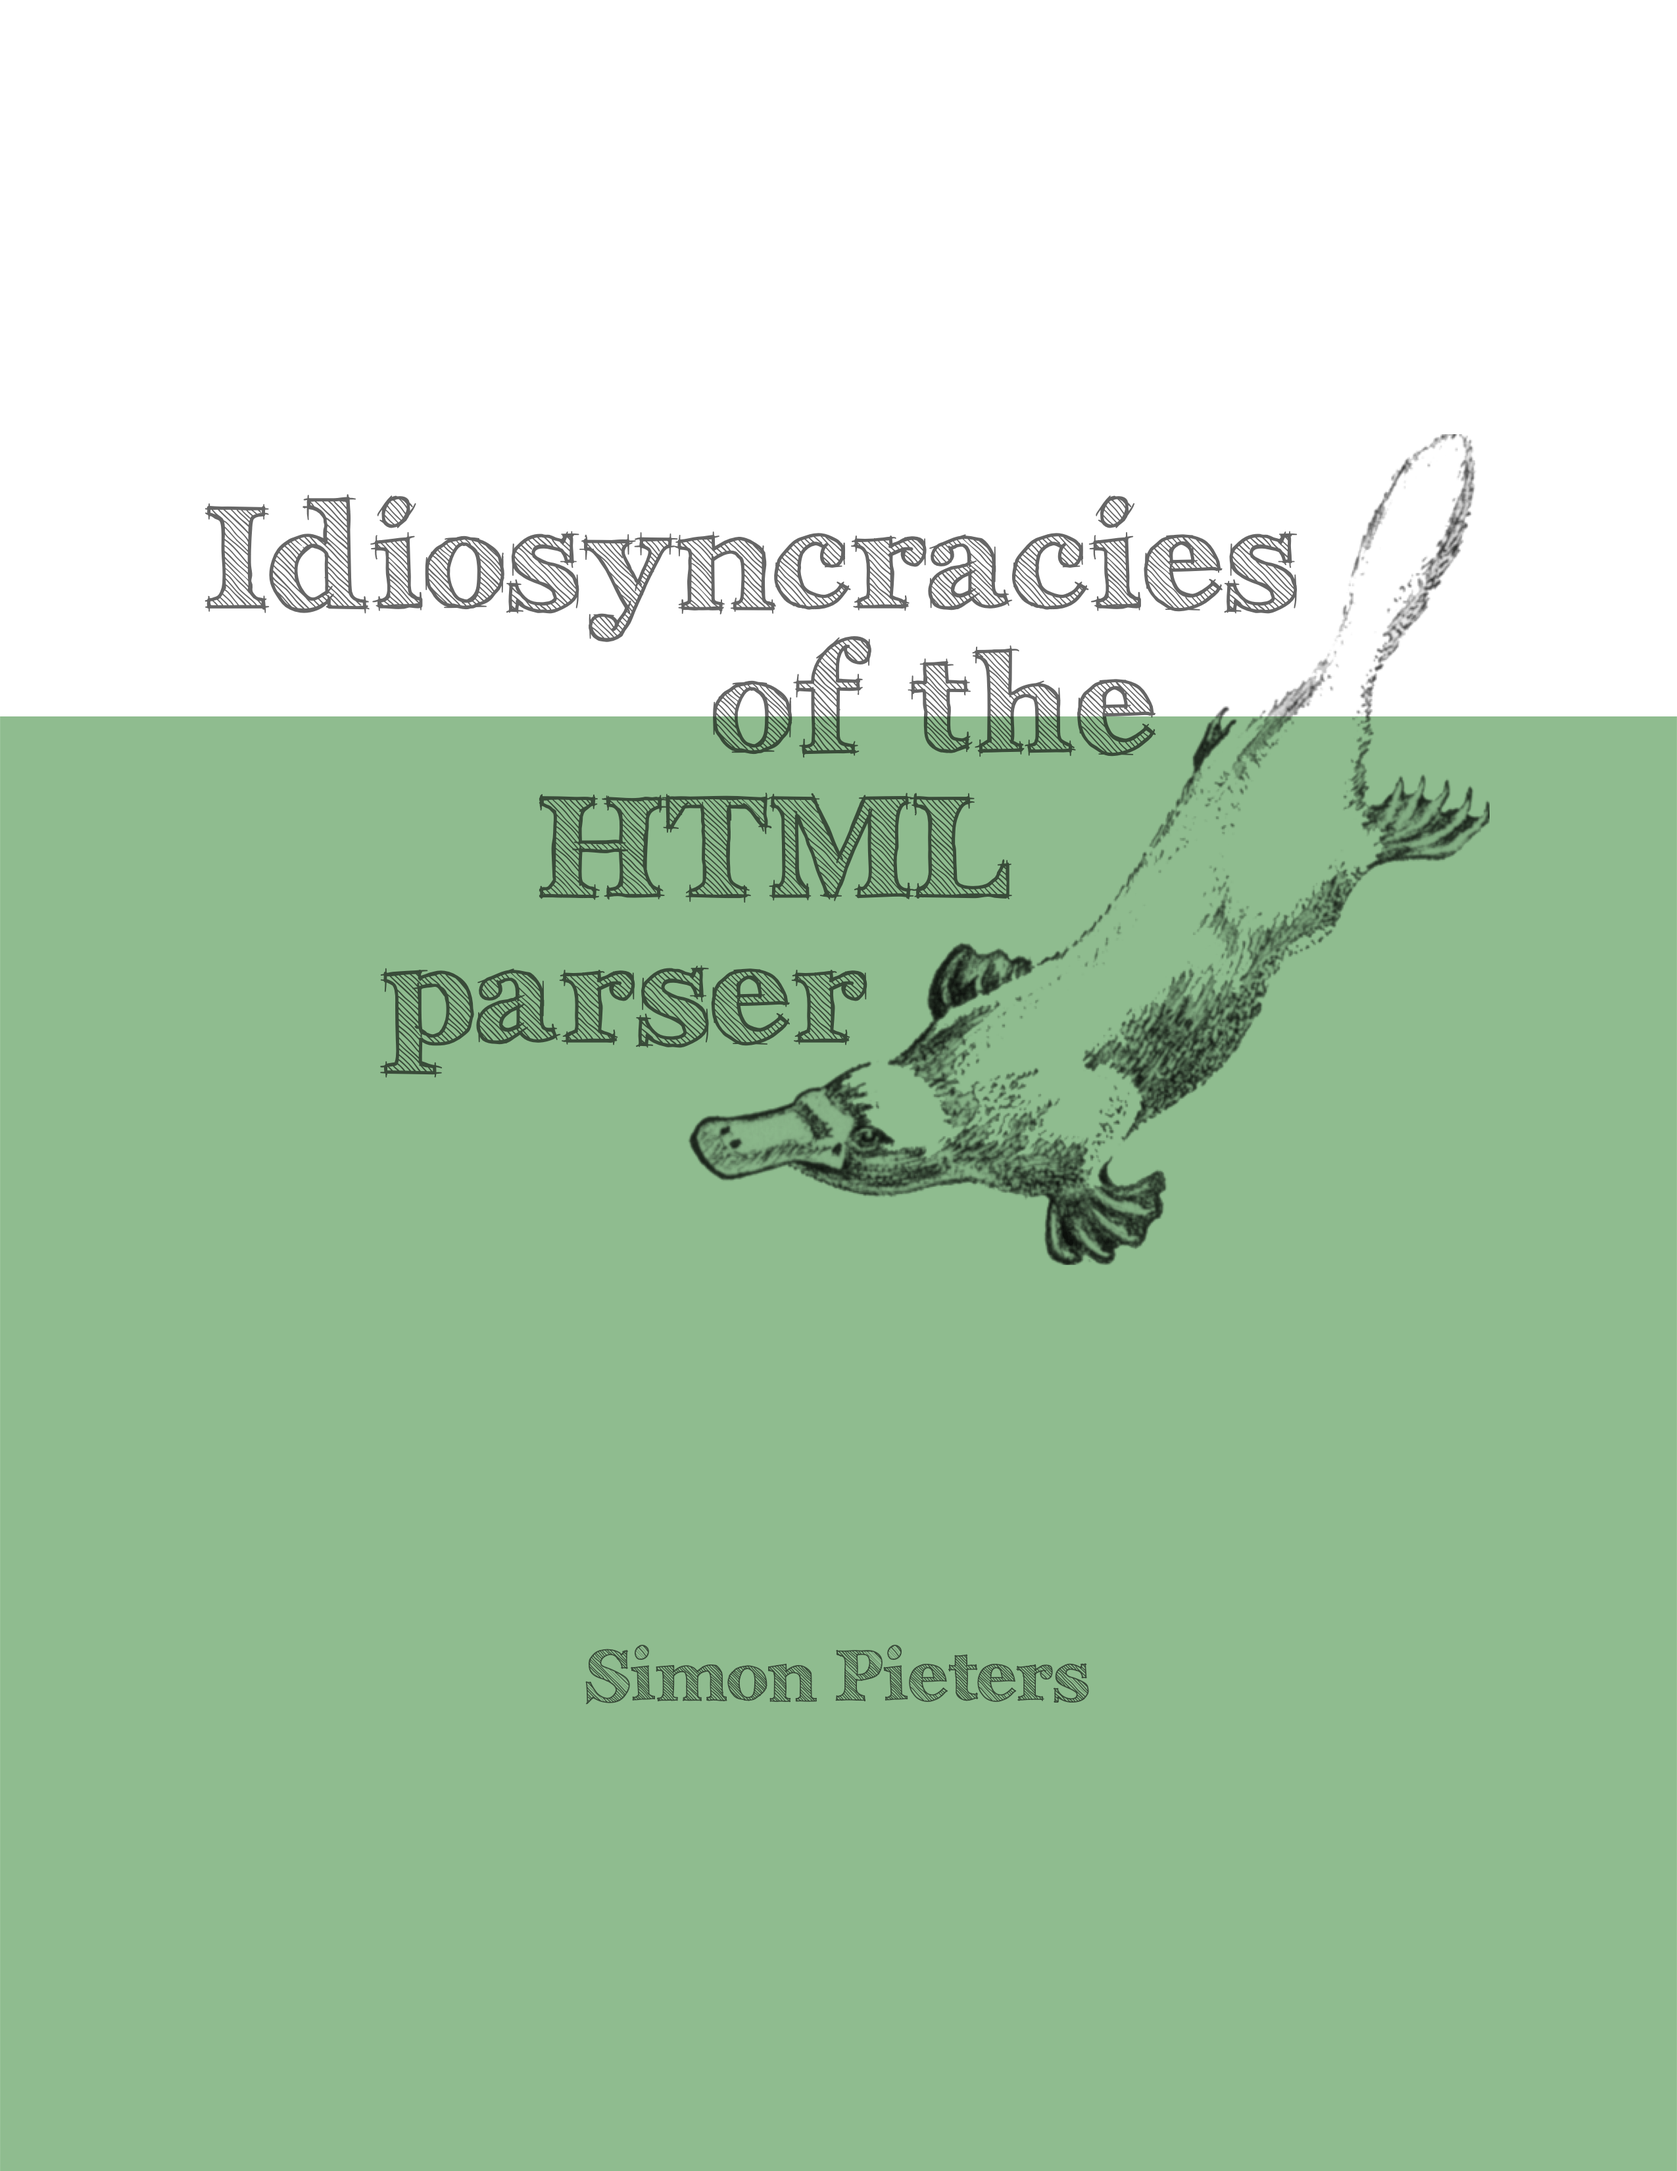
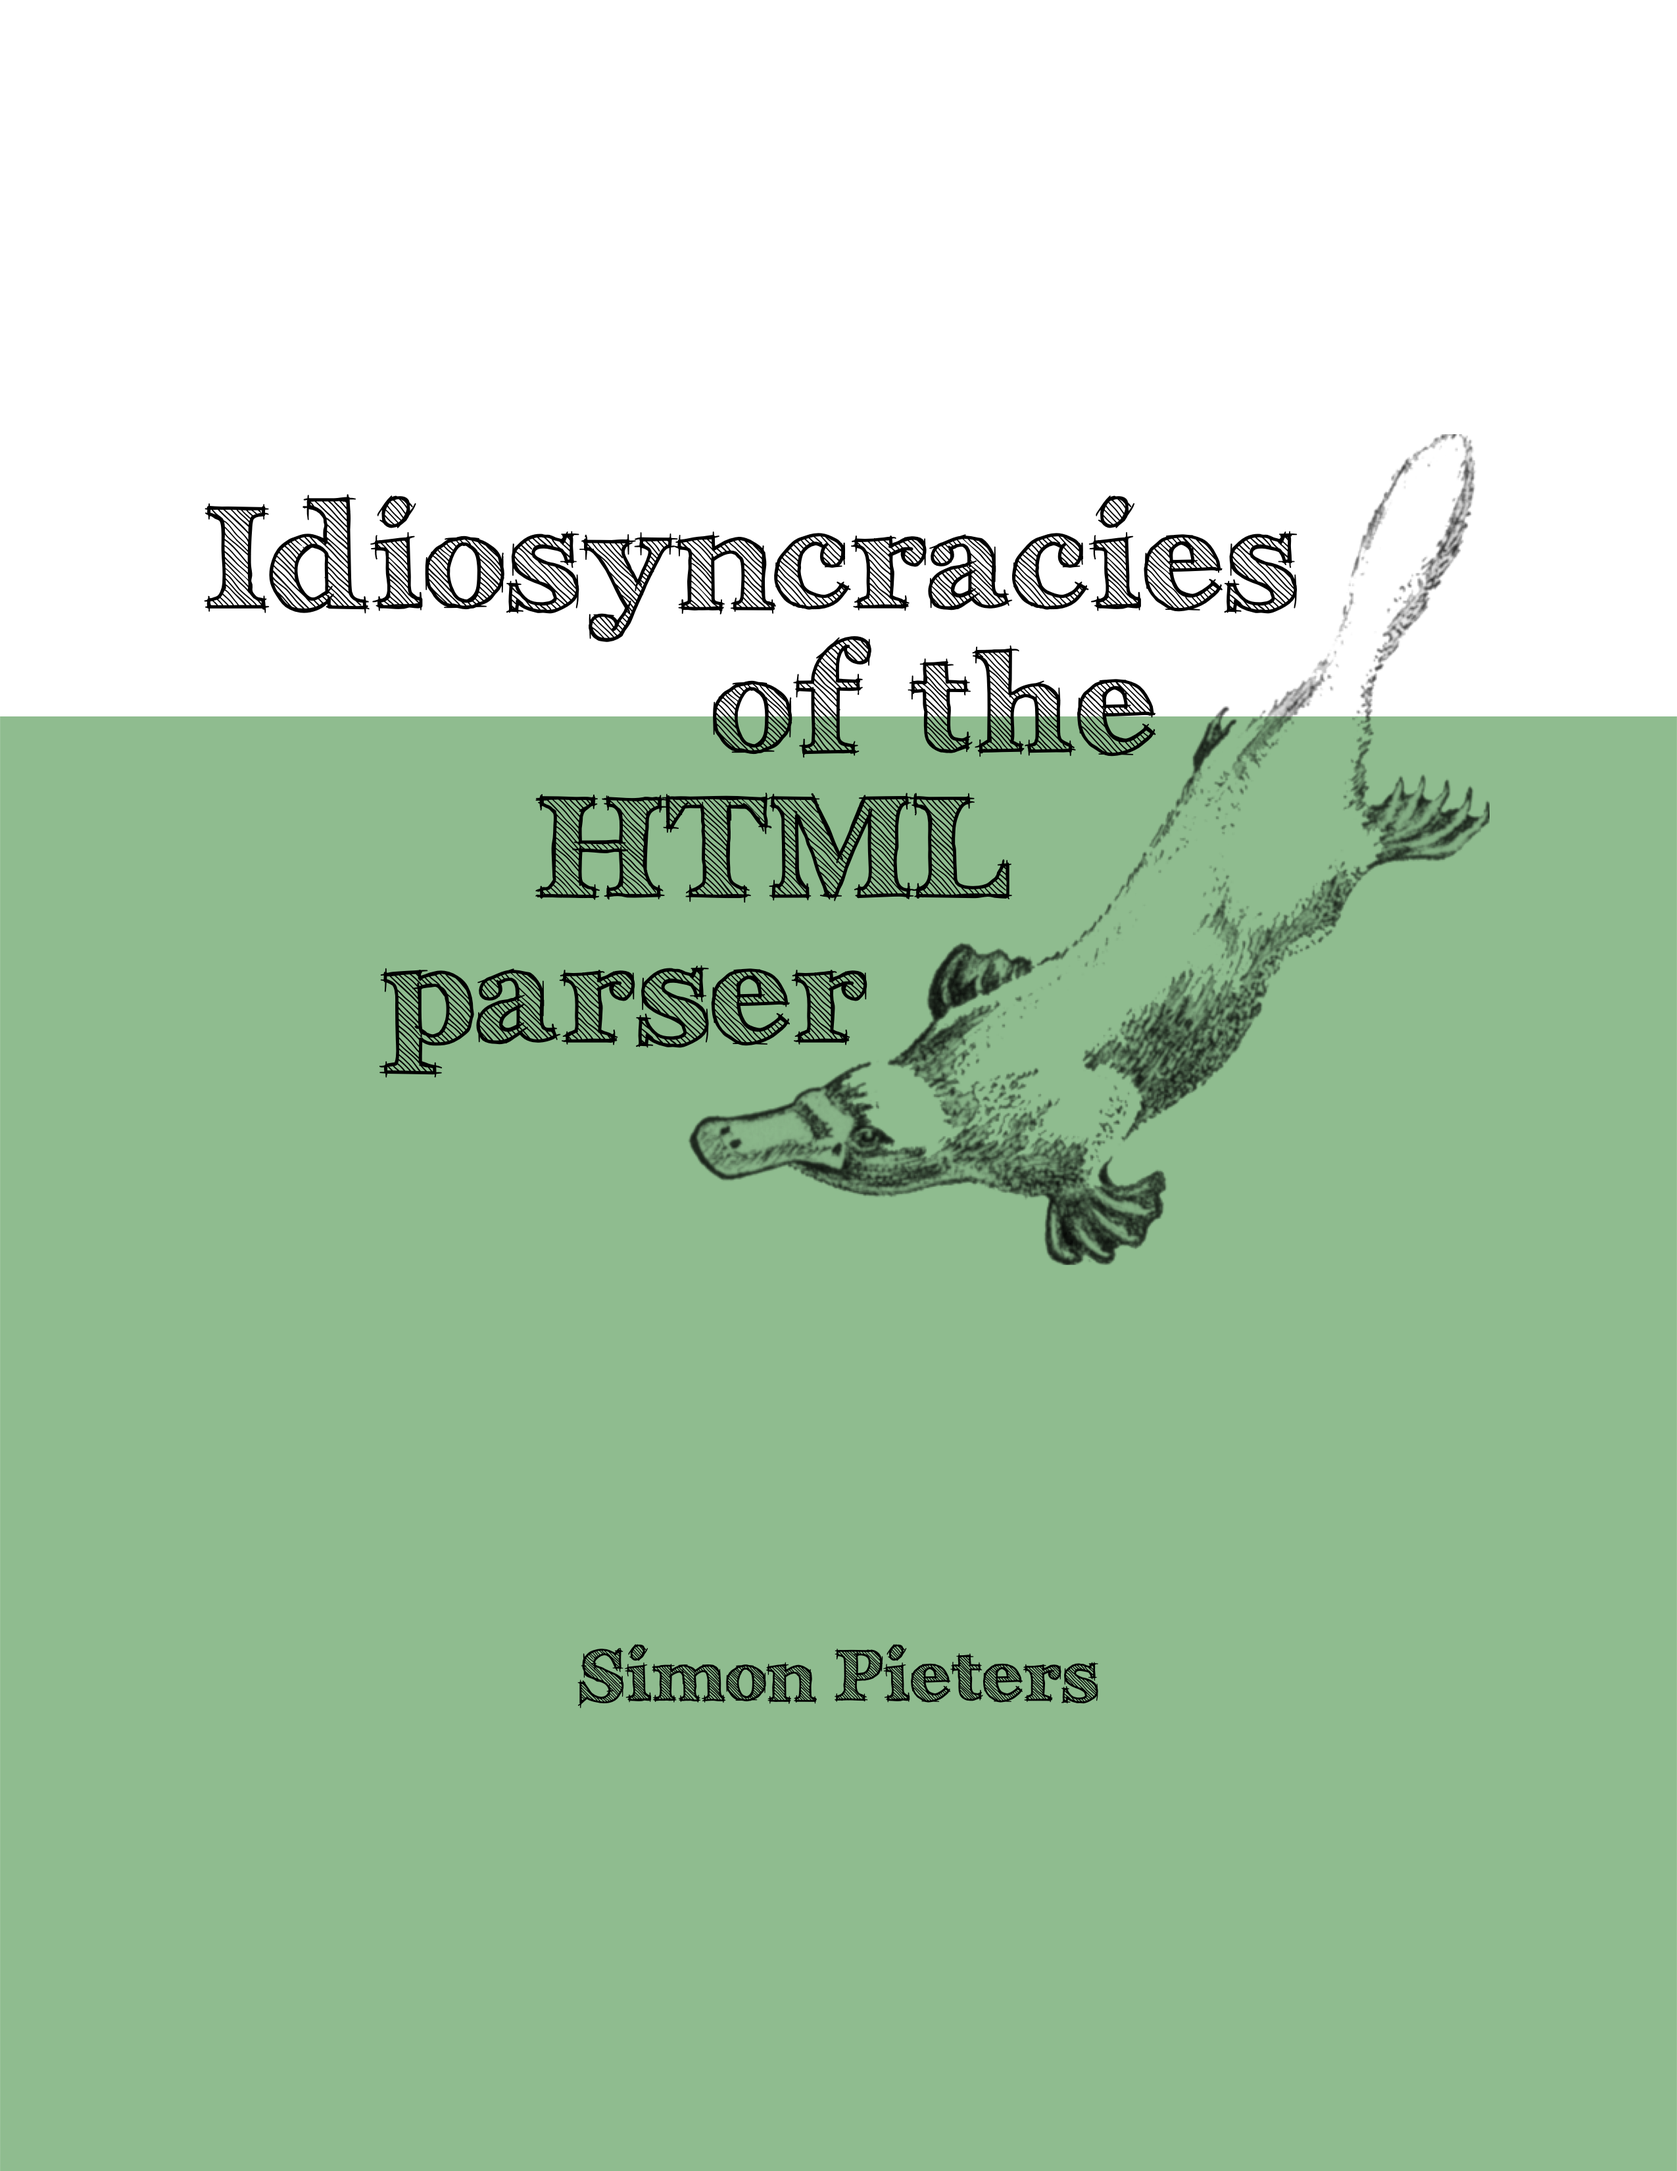
Make the text clearer in the book cover

Changed region(s): [[0.1239, 0.2185, 0.7745, 0.4994], [0.3408, 0.7491, 0.6506, 0.7803]]

diff --git a/manuscript/index.md b/manuscript/index.md
@@ -30,7 +30,6 @@ title: Idiosyncrancies of the HTML parser - The HTML Parser Book
     }
     #book-cover-svg text {
       font-family: Archistico, sans-serif;
-      opacity: 0.6;
     }
     #book-cover-svg #book-author {
       font-weight: normal;
